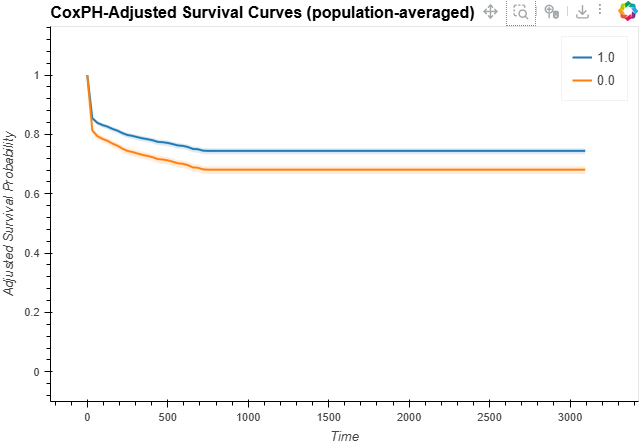
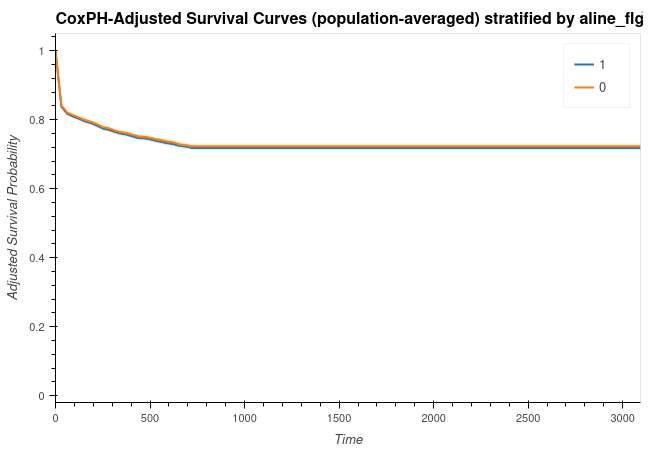
Require the strata of cox_ph_adjusted_curves to be in the Cox model (#1192)
* Require the strata of cox_ph_adjusted_curves to be in the Cox model

cox_ph_adjusted_curves sets the strata variable to each of its groups and predicts with the fitted model, so groups differ only if the variable is a covariate or a strata of that model.
Its docstring asked to leave the variable out of the formula, which gave every group the same curve without any warning, and the example of pl.cox_ph_adjusted_curves did exactly that.
It now raises an error in that case, the docstring says the variable must be in the model, the plot example adds aline_flg to the formula, and its preview is regenerated.
The tests that stratified by a variable outside the model add it to the formula.

* Link the changelog entry to its pull request

Changed region(s): [[0.0, 0.0, 0.9953, 0.9955], [0.8709, 0.1757, 0.9642, 0.205], [0.8709, 0.1171, 0.9642, 0.1464]]

diff --git a/tests/tools/test_sa.py b/tests/tools/test_sa.py
@@ -205,7 +205,7 @@ def test_cox_ph_adjusted_curves_basic(mimic_2_adjusted_sa, method, layer):
         edata,
         duration_col=duration_col,
         event_col=event_col,
-        formula="sapsi_first + afib_flg",
+        formula="sapsi_first + afib_flg + aline_flg",
         layer=layer,
     )
     ep.tl.cox_ph_adjusted_curves(
@@ -258,7 +258,9 @@ def test_cox_ph_adjusted_curves_basic(mimic_2_adjusted_sa, method, layer):
 def test_cox_ph_adjusted_curves_copy(mimic_2_adjusted_sa):
     edata = mimic_2_adjusted_sa
     duration_col, event_col = "mort_day_censored", "censor_flg"
-    cph = ep.tl.cox_ph(edata, duration_col=duration_col, event_col=event_col, formula="sapsi_first + afib_flg")
+    cph = ep.tl.cox_ph(
+        edata, duration_col=duration_col, event_col=event_col, formula="sapsi_first + afib_flg + aline_flg"
+    )
     kwargs = {"cph": cph, "strata": "aline_flg", "duration_col": duration_col, "event_col": event_col}
 
     edata_copy = ep.tl.cox_ph_adjusted_curves(edata, method="conditional", copy=True, **kwargs)
@@ -267,6 +269,24 @@ def test_cox_ph_adjusted_curves_copy(mimic_2_adjusted_sa):
 
     assert ep.tl.cox_ph_adjusted_curves(edata, method="conditional", **kwargs) is None
     assert "cox_ph_adjusted_curves" in edata.uns
+
+
+@pytest.mark.parametrize("in_model", ["formula", "strata", None])
+def test_cox_ph_adjusted_curves_strata_in_model(mimic_2_adjusted_sa, in_model):
+    edata = mimic_2_adjusted_sa
+    duration_col, event_col = "mort_day_censored", "censor_flg"
+    formula = "sapsi_first + afib_flg" + (" + aline_flg" if in_model == "formula" else "")
+    strata = "aline_flg" if in_model == "strata" else None
+    cph = ep.tl.cox_ph(edata, duration_col=duration_col, event_col=event_col, formula=formula, strata=strata)
+    kwargs = {"cph": cph, "strata": "aline_flg", "duration_col": duration_col, "event_col": event_col}
+
+    if in_model is None:
+        with pytest.raises(ValueError, match="'aline_flg' is neither a covariate nor one of the `strata`"):
+            ep.tl.cox_ph_adjusted_curves(edata, method="conditional", **kwargs)
+        return
+    ep.tl.cox_ph_adjusted_curves(edata, method="conditional", **kwargs)
+    result = edata.uns["cox_ph_adjusted_curves"]
+    assert not np.allclose(result["0"]["survival"], result["1"]["survival"])
 
 
 @pytest.fixture

diff --git a/ehrapy/tools/_survival_analysis.py b/ehrapy/tools/_survival_analysis.py
@@ -1025,7 +1025,7 @@ def cox_ph_adjusted_curves(
         edata: Central data object.
         cph: Fitted CoxPHFitter, as returned by :func:`~ehrapy.tools.cox_ph`.
         strata: Name of the column to stratify by.
-            Must be present in the data and should not be included in the Cox model formula.
+            Must be a covariate or one of the `strata` of `cph`, because the curves of its groups differ only through the model.
         duration_col: The name of the column that contains the subjects' lifetimes.
             `None` if `event_col` is a variable of 3D data, from which the durations are derived.
         event_col: The name of the column that specifies whether the event has been observed or censored.
@@ -1069,6 +1069,10 @@ def cox_ph_adjusted_curves(
     edata = edata.copy() if copy else edata
     strata_cols = [cph.strata] if isinstance(cph.strata, str) else list(cph.strata or [])
     cph_covariates = _formula_variables(cph.formula) if cph.formula else list(cph.params_.index)
+    if strata not in {*strata_cols, *cph_covariates}:
+        raise ValueError(
+            f"{strata!r} is neither a covariate nor one of the `strata` of `cph`, so all of its groups would get the same curve."
+        )
     df, duration_col = _survival_frame(
         edata, duration_col, event_col, [strata, *strata_cols, *cph_covariates], layer=layer
     )

diff --git a/ehrapy/plot/_survival_analysis.py b/ehrapy/plot/_survival_analysis.py
@@ -526,7 +526,7 @@ def cox_ph_adjusted_curves(
         ...     edata,
         ...     duration_col="mort_day_censored",
         ...     event_col="censor_flg",
-        ...     formula="gender_num + afib_flg + day_icu_intime_num",
+        ...     formula="aline_flg + gender_num + afib_flg + day_icu_intime_num",
         ... )
         >>> ep.tl.cox_ph_adjusted_curves(
         ...     edata,

diff --git a/tests/plot/test_survival_analysis.py b/tests/plot/test_survival_analysis.py
@@ -155,7 +155,7 @@ def test_cox_ph_adjusted_curves(mimic_2_adjusted_sa):
         edata_sample,
         duration_col=duration_col,
         event_col=event_col,
-        formula="sapsi_first + afib_flg",
+        formula="sapsi_first + afib_flg + aline_flg",
         layer="layer_2",
     )
     ep.tl.cox_ph_adjusted_curves(

diff --git a/docs/changelog.md b/docs/changelog.md
@@ -95,6 +95,7 @@ This project adheres to [Semantic Versioning](https://semver.org/spec/v2.0.0.htm
 
 ### 🐛 Bug Fixes
 
+* {func}`ep.tl.cox_ph_adjusted_curves <ehrapy.tools.cox_ph_adjusted_curves>` raises an error when `strata` is neither a covariate nor one of the `strata` of `cph`, which gave every group the same curve, and its documentation no longer asks to leave `strata` out of the model ([#1192](https://github.com/theislab/ehrapy/pull/1192)) @Zethson
 * {func}`ep.pl.cox_ph_forestplot <ehrapy.plot.cox_ph_forestplot>` draws the confidence intervals as horizontal error bars, puts the reference line at a coefficient of 0, which is a hazard ratio of 1, instead of 1, and gives the header its own row instead of overlapping the top coefficient ([#1191](https://github.com/theislab/ehrapy/pull/1191)) @Zethson
 * The survival models that derive durations from a longitudinal `event_col` measure them in the unit of `edata.tem["time_value"]`, such as hours on PhysioNet 2012 and 2019, instead of in seconds of `edata.tem["interval_start_offset"]`, which they keep using when `tem` has no `time_value` ([#1190](https://github.com/theislab/ehrapy/pull/1190)) @Zethson
 * The examples of {func}`ep.tl.kaplan_meier <ehrapy.tools.kaplan_meier>`, {func}`ep.tl.nelson_aalen <ehrapy.tools.nelson_aalen>`, {func}`ep.tl.weibull <ehrapy.tools.weibull>`, {func}`ep.tl.weibull_aft <ehrapy.tools.weibull_aft>`, {func}`ep.tl.log_logistic_aft <ehrapy.tools.log_logistic_aft>`, {func}`ep.tl.cox_ph <ehrapy.tools.cox_ph>` and {func}`ep.pl.kaplan_meier <ehrapy.plot.kaplan_meier>` no longer flip `censor_flg` of MIMIC-II, which `ed.dt.mimic_2` already codes as 1 for death, so that they model the time to death instead of the time to censoring ([#1189](https://github.com/theislab/ehrapy/pull/1189)) @Zethson
